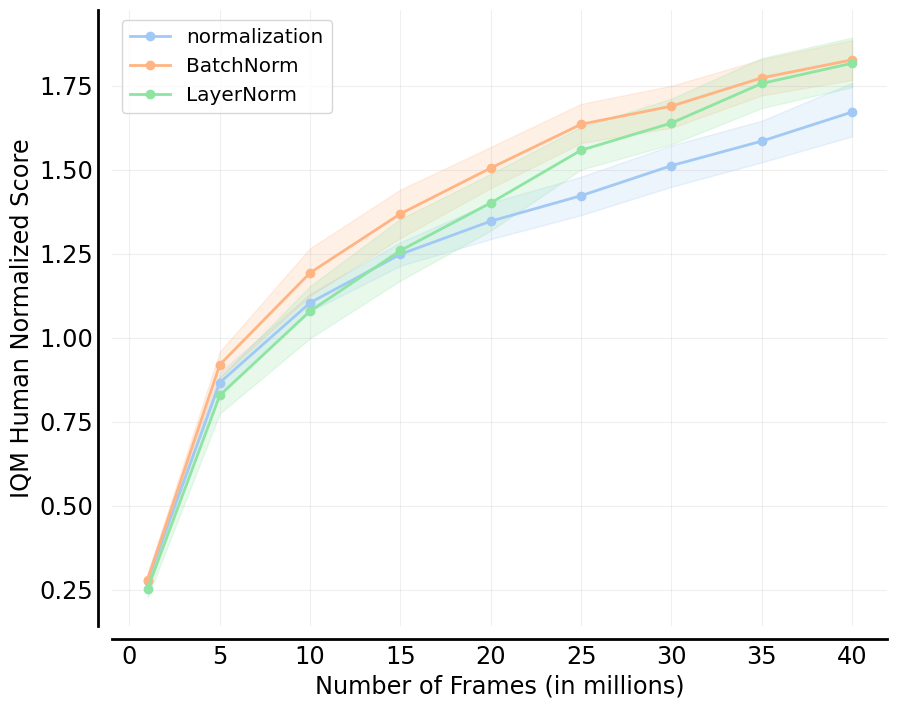
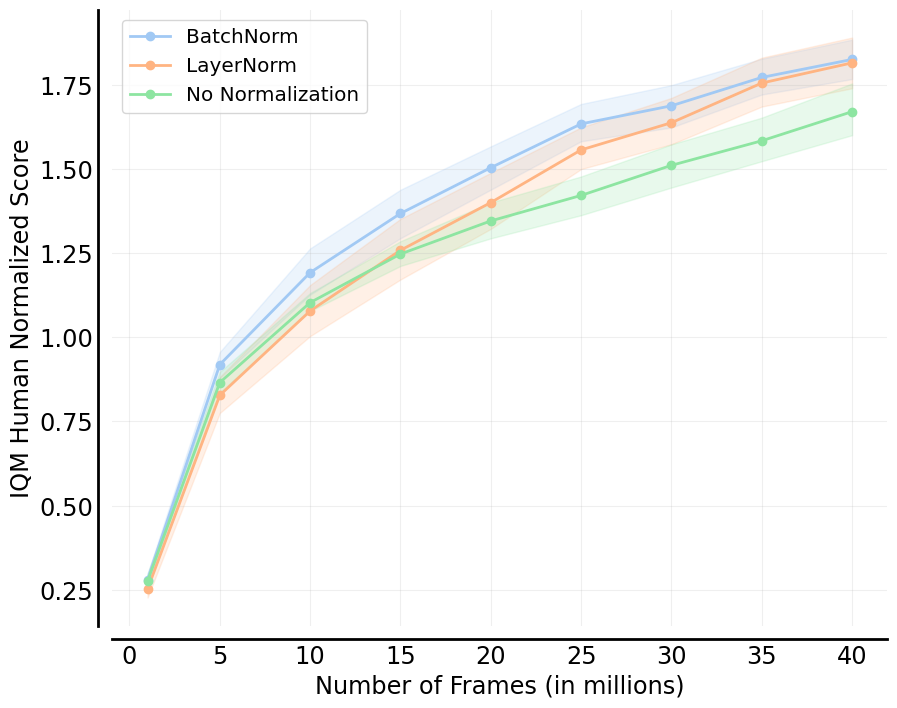
fix normalization names

diff --git a/Main.py b/Main.py
@@ -9,31 +9,31 @@ plot = st.experimental_memo(plot)
 plot_human_normalized = st.experimental_memo(plot_human_normalized)
 
 st.set_page_config(layout="wide", page_title="Lifting the Veil")
-st.sidebar.markdown("# Main page 🎈")
+st.sidebar.markdown("# Main page 🌈")
 
 st.title("Lifting the Veil")
 # text = st.text_input()
 # agents = st.multiselect("Agents", options=["DrQ_eps", "DER"])
 agents = ["DrQ_eps", "DER"]
 
-experiments_mapping = { "Activation Function": "layer_funct",
-                        "Adam's epsilon": "epsilon",
-                        "Batch Size": "batch_sizes",
-                        "Convolutional Normalization": "convs_normalization", 
-                        "Dense Normalization": "normalizations",
-                        "Discount Factor": "gammas",
-                        "Learning Rate": "learning_rate",
-                        "Minimum Replay History": "min_replay_history",
-                        "Number of Atoms": "num_atoms", 
-                        "Number of Convolutional Layers": "convs", 
-                        "Number of Dense Layers": "depths",
-                        "Replay Capacity": "replay_capacity",
-                        "Reward Clipping": "clip_rewards",
-                        "Target Update Period": "target_update_periods",
-                        "Update Horizon": "update_horizon",
-                        "Update Period": "update_periods",
-                        "Weight Decay": "weightdecay",
-                        "Width": "widths",
+experiments_mapping = { "Activation Function (40M)": "layer_funct",
+                        "Adam's epsilon (100k)": "epsilon",
+                        "Batch Size (100k)": "batch_sizes",
+                        "Convolutional Normalization (40M)": "convs_normalization", 
+                        "Dense Normalization (100k)": "normalizations",
+                        "Discount Factor (40M)": "gammas",
+                        "Learning Rate (100k)": "learning_rate",
+                        "Minimum Replay History (40M)": "min_replay_history",
+                        "Number of Atoms (40M)": "num_atoms", 
+                        "Number of Convolutional Layers (100k)": "convs", 
+                        "Number of Dense Layers (100k)": "depths",
+                        "Replay Capacity (100k)": "replay_capacity",
+                        "Reward Clipping (100k)": "clip_rewards",
+                        "Target Update Period (100k)": "target_update_periods",
+                        "Update Horizon (40M)": "update_horizon",
+                        "Update Period (100k)": "update_periods",
+                        "Weight Decay (100k)": "weightdecay",
+                        "Width (100k)": "widths",
                     }
 hyperparameter = st.radio("Hyperparameter", options=experiments_mapping.keys())
 hyp = experiments_mapping[hyperparameter]
@@ -44,11 +44,13 @@ else:
     shim = "100k_experiments"
     shim2 = "100k_experiments"
 
-fig1_path = f"figures/{shim}/IQM/{hyperparameter}"
+st.header(hyperparameter)
+
+fig1_path = f"figures/{shim}/IQM/{hyperparameter.split('(')[0][:-1]}"
 # with open(f'data/{shim}/final_perf/{hyp}.pickle', mode='rb') as f:
     # data = pickle.load(f)
 
-fig2_path = f"figures/{shim2}/HNS/{hyperparameter}"
+fig2_path = f"figures/{shim2}/HNS/{hyperparameter.split('(')[0][:-1]}"
 # try:
 #     with open(f'data/{shim}/human_normalized_curve/{hyp}.pickle', mode='rb') as f:
 #         data2 = pickle.load(f)

diff --git a/plot_data.py b/plot_data.py
@@ -117,6 +117,8 @@ human_scores = my_str.split('\n')
 
 def plot_human_normalized(all_experiments, scale='100k', ax=None, colors=None):
   all_experiments = {k.split("_")[-1]:v for (k, v) in all_experiments.items()}
+  if "normalization" in all_experiments.keys():
+    all_experiments["No Normalization"] = all_experiments.pop("normalization")
   algorithms = list(all_experiments.keys())
 
   print('algorithms:', algorithms)
@@ -211,9 +213,13 @@ def split_plot(dict_100k, dict_40M):
                               gridspec_kw={'width_ratios':[1, 2]},
                               figsize=(14, 6))
 
-  algorithms = [k.split("_")[-1] for k in dict_100k.keys()]
+  if "normalization" in dict_100k.keys():
+    dict_100k["No Normalization"] = dict_100k.pop("normalization")
+    dict_40M["No Normalization"] = dict_40M.pop("normalization")
+  algorithms = list(dict_100k.keys())
   colors = zip(algorithms, sns.color_palette("pastel"))
   colors = {k:v for (k, v) in colors}
+  
   _, all_axes[0] = plot_human_normalized(dict_100k, scale="100k", ax=all_axes[0], colors=colors)
 
   axes = all_axes[1:]

diff --git a/split_graph.py b/split_graph.py
@@ -43,14 +43,14 @@ for hyperparameter, hyp in experiments_mapping.items():
     for ag in agents:
         if ag == "DrQ_eps" and hyp == "num_atoms":
             continue
-
+        data100k[f'{ag}_{hyp}'] = {k.split("_")[-1]:v for (k, v) in data100k[f'{ag}_{hyp}'].items()}
+        data40M[f'{ag}_{hyp}'] = {k.split("_")[-1]:v for (k, v) in data40M[f'{ag}_{hyp}'].items()}
         fig = split_plot(data100k[f'{ag}_{hyp}'], data40M[f'{ag}_{hyp}'])
-        plt.show()
-        # save_dir = f"figures/split/HNS/{hyperparameter}"
-        # if not os.path.isdir(save_dir):
-        #     os.makedirs(save_dir)
-        # fig.savefig(f"{save_dir}/{ag}.png", bbox_inches='tight')
+        # plt.show()
+        save_dir = f"figures/split/HNS/{hyperparameter}"
+        if not os.path.isdir(save_dir):
+            os.makedirs(save_dir)
+        fig.savefig(f"{save_dir}/{ag}.png", bbox_inches='tight')
 
         plt.close()
-        exit(0)
 

diff --git a/offline_img.py b/offline_img.py
@@ -62,6 +62,8 @@ for hyperparameter, hyp in experiments_mapping.items():
             if data is not None:
                 print(f"working!\n{ag} and {hyp}\n")
                 data[f'{ag}_{hyp}'] = {k.split("_")[-1]:v for (k, v) in data[f'{ag}_{hyp}'].items()}
+                if "normalization" in data[f'{ag}_{hyp}'].keys():
+                    data[f'{ag}_{hyp}']["No Normalization"] = data[f'{ag}_{hyp}'].pop("normalization")
                 hp_values = list(data[f'{ag}_{hyp}'].keys())
 
                 colors = zip(hp_values, sns.color_palette("pastel"))
